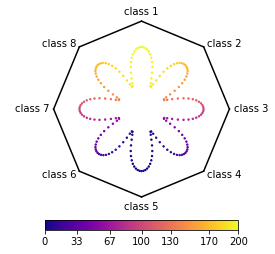
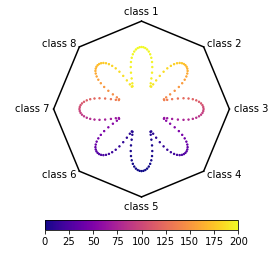
manual ticks

Changed region(s): [[0.5527, 0.9094, 0.8145, 0.9646], [0.2327, 0.9094, 0.4655, 0.9646]]

diff --git a/multi_bary_plot/multi_bary_plot.py b/multi_bary_plot/multi_bary_plot.py
@@ -22,19 +22,17 @@ class GenBary:
         Coordinates in at least 3 dimensions and an optional
         value column.
     value_column : string, optional
-        The name of the optional value column in the data.
-        If no value column is given, imshow is not available
-        and scatter does not color the points automatically.
-    coordinate_columns : string list, optional
+        The name of the optional value column in the `data`.
+        If no value column is given, `imshow` is not available
+        and `scatter` does not color the points automatically.
+    coordinate_columns : list of strings, optional
         The coloumns of data that contain the positional values.
-        If None is given, all columns but the value_column are
-        used as coordinate_columns.
+        If None is given, all columns but the `value_column` are
+        used as `coordinate_columns`.
     res : int, optional
         The number of pixels along one axes; defaults to 500.
-    n_ticks_colorbar : int, optional
-        Number of ticks in the optional colorbars; defaults to 7.
-    sign_ticks_colorbar : int, optional
-        Significant figures of the colorbar ticks; defaults to 2.
+    ticks : list of numericals, optional
+        The ticks of the colorbar.
 
     Returns
     -------
@@ -53,7 +51,7 @@ class GenBary:
     """
 
     def __init__(self, data, value_column=None, coordinate_columns=None,
-                 res=500, n_ticks_colorbar=7, sign_ticks_colorbar=2):
+                 res=500, ticks=None):
         if value_column is not None and value_column not in data.columns.values:
             raise ValueError('`value_column` musste be a column name of `data`.')
         if (coordinate_columns is not None and
@@ -67,12 +65,6 @@ class GenBary:
         if not isinstance(res, (int, float)):
             raise ValueError('`res` musst be numerical.')
         self.res = int(res)
-        if not isinstance(n_ticks_colorbar, (int, float)):
-            raise ValueError('n_ticks_colorbar musst be a number.')
-        self.n_ticks_colorbar = int(n_ticks_colorbar)
-        if not isinstance(sign_ticks_colorbar, (int, float)):
-            raise ValueError('sign_ticks_colorbar musst be a number.')
-        self.sign_ticks_colorbar = int(sign_ticks_colorbar)
         numerical = ['float64', 'float32', 'int64', 'int32']
         if not all([d in numerical for d in data.dtypes]):
             raise ValueError('The data musst be numerical.')
@@ -88,6 +80,7 @@ class GenBary:
         else:
             coords = data[coordinate_columns]
             self.values = data[value_column].values
+        self.ticks = ticks
         norm = np.sum(coords.values, axis=1, keepdims=True)
         ind = np.sum(np.isnan(coords), axis=1) == 0
         ind = np.logical_and(ind, (norm != 0).flatten())
@@ -167,47 +160,6 @@ class GenBary:
         values = self._vals_on_grid()
         return np.ma.masked_where(~self.in_hull, values)
 
-    def get_ticks(self, values=None, nticks=None, sign=None):
-        """
-        Returns the ticks for the colorbar and the given values.
-
-        Parameters
-        ----------
-        values : array, optional
-            An array of values that includes the maximum and
-            minimum of values that are represented as colors in the plot.
-        nticks : int, optional
-            Number of ticks.
-        sign : int, optional
-            Figures of significants of the tick values.
-
-        Returns
-        -------
-        ticks : list
-            A list of values for the colorbar ticks.
-        """
-        if values is None:
-            values = self.plot_values
-        if nticks is None:
-            nticks = self.n_ticks_colorbar
-        elif not isinstance(nticks, (int, float)):
-            raise ValueError('`nticks` musst be numerical.')
-        nticks = int(nticks)
-        if sign is None:
-            sign = self.sign_ticks_colorbar
-        elif not isinstance(sign, (int, float)):
-            raise ValueError('`sign` musst be numerical.')
-        sign = int(self.sign_ticks_colorbar)
-        ub = np.max(values)
-        lb = np.min(values)
-        form = '{:.' + str(sign) + 'g}'
-        def make_ticks(n):
-            ticks = np.linspace(lb, ub, n)
-            return [float(form.format(t)) for t in ticks]
-        ticks = make_ticks(nticks)
-        nticks += (ticks[0] < lb) + (ticks[-1] > ub)
-        return make_ticks(nticks)
-
     @property
     def text_position(self):
         """Dimensions label positions in plot."""
@@ -281,8 +233,7 @@ class GenBary:
         if colorbar:
             divider = make_axes_locatable(ax)
             cax = divider.append_axes('bottom', size='5%', pad=.2)
-            ticks = self.get_ticks(self.plot_values)
-            fig.colorbar(im, cax=cax, orientation='horizontal', ticks=ticks)
+            fig.colorbar(im, cax=cax, orientation='horizontal', ticks=self.ticks)
         # manual limits because of masked data
         v = self.vertices
         xpad = (v['x'].max()-v['x'].min()) * .05
@@ -356,8 +307,7 @@ class GenBary:
                 vals = kwargs['c']
             else:
                 vals = self.plot_values
-            ticks = self.get_ticks(vals)
-            fig.colorbar(pc, cax=cax, orientation='horizontal', ticks=ticks)
+            fig.colorbar(pc, cax=cax, orientation='horizontal', ticks=self.ticks)
         return fig, ax, pc
 
     def plot(self, fig=None, ax=None, **kwargs):

diff --git a/README.md b/README.md
@@ -123,15 +123,17 @@ help(GenBary)
      |      Coordinates in at least 3 dimensions and an optional
      |      value column.
      |  value_column : string, optional
-     |      The name of the optional value column in the data.
-     |      If no value column is given, imshow is not available
-     |      and scatter does not color the points automatically.
+     |      The name of the optional value column in the `data`.
+     |      If no value column is given, `imshow` is not available
+     |      and `scatter` does not color the points automatically.
+     |  coordinate_columns : list of strings, optional
+     |      The coloumns of data that contain the positional values.
+     |      If None is given, all columns but the `value_column` are
+     |      used as `coordinate_columns`.
      |  res : int, optional
      |      The number of pixels along one axes; defaults to 500.
-     |  n_ticks_colorbar : int, optional
-     |      Number of ticks in the optional colorbars; defaults to 7.
-     |  sign_ticks_colorbar : int, optional
-     |      Significant figures of the colorbar ticks; defaults to 2.
+     |  ticks : list of numericals, optional
+     |      The ticks of the colorbar.
      |  
      |  Returns
      |  -------
@@ -150,29 +152,11 @@ help(GenBary)
      |  
      |  Methods defined here:
      |  
-     |  __init__(self, data, value_column=None, res=500, n_ticks_colorbar=7, sign_ticks_colorbar=2)
+     |  __init__(self, data, value_column=None, coordinate_columns=None, res=500, ticks=None)
      |      Initialize self.  See help(type(self)) for accurate signature.
      |  
      |  draw_polygon(self, ax=None)
      |      Draws the axes and lables of the coordinate system.
-     |  
-     |  get_ticks(self, values=None, nticks=None, sign=None)
-     |      Returns the ticks for the colorbar and the given values.
-     |      
-     |      Parameters
-     |      ----------
-     |      values : array, optional
-     |          An array of values that includes the maximum and
-     |          minimum of values that are represented as colors in the plot.
-     |      nticks : int, optional
-     |          Number of ticks.
-     |      sign : int, optional
-     |          Figures of significants of the tick values.
-     |      
-     |      Returns
-     |      -------
-     |      ticks : list
-     |          A list of values for the colorbar ticks.
      |  
      |  imshow(self, colorbar=True, fig=None, ax=None, **kwargs)
      |      Plots the data in barycentric coordinates and colors pixels
